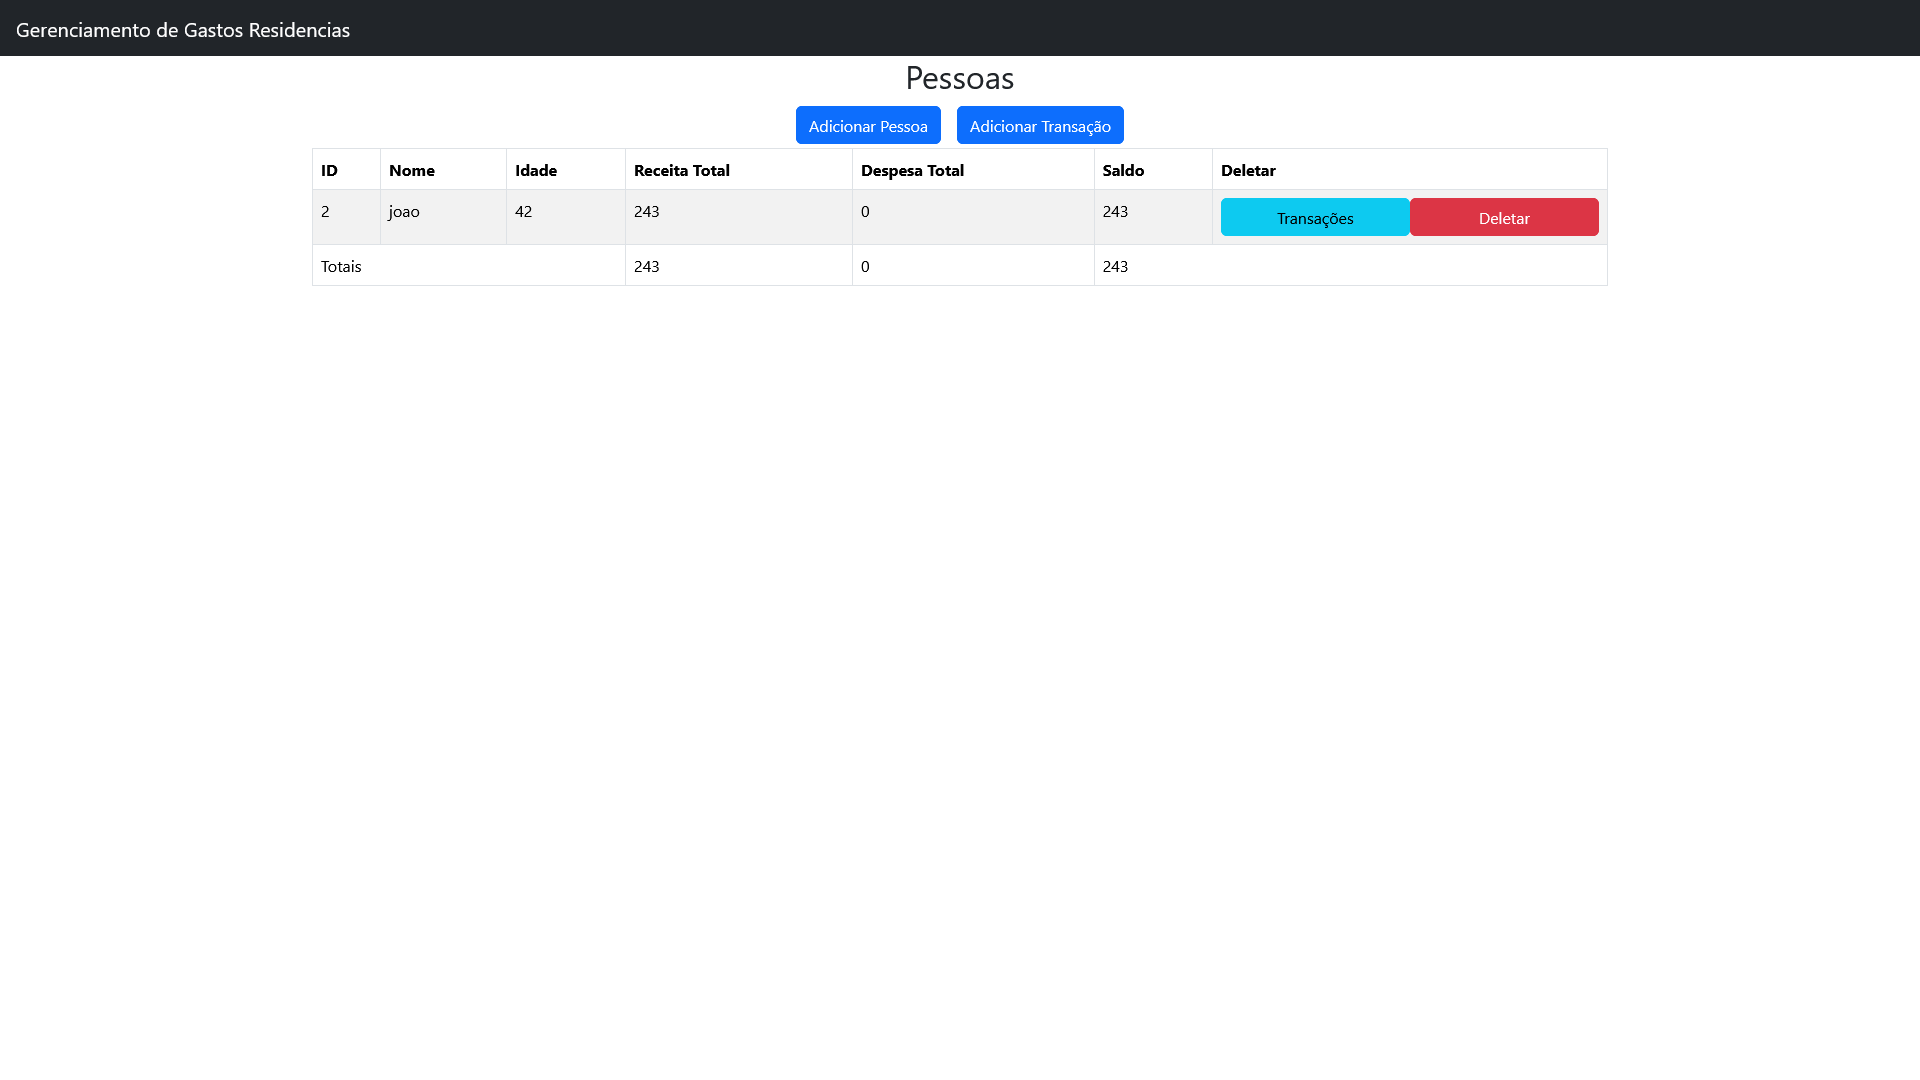
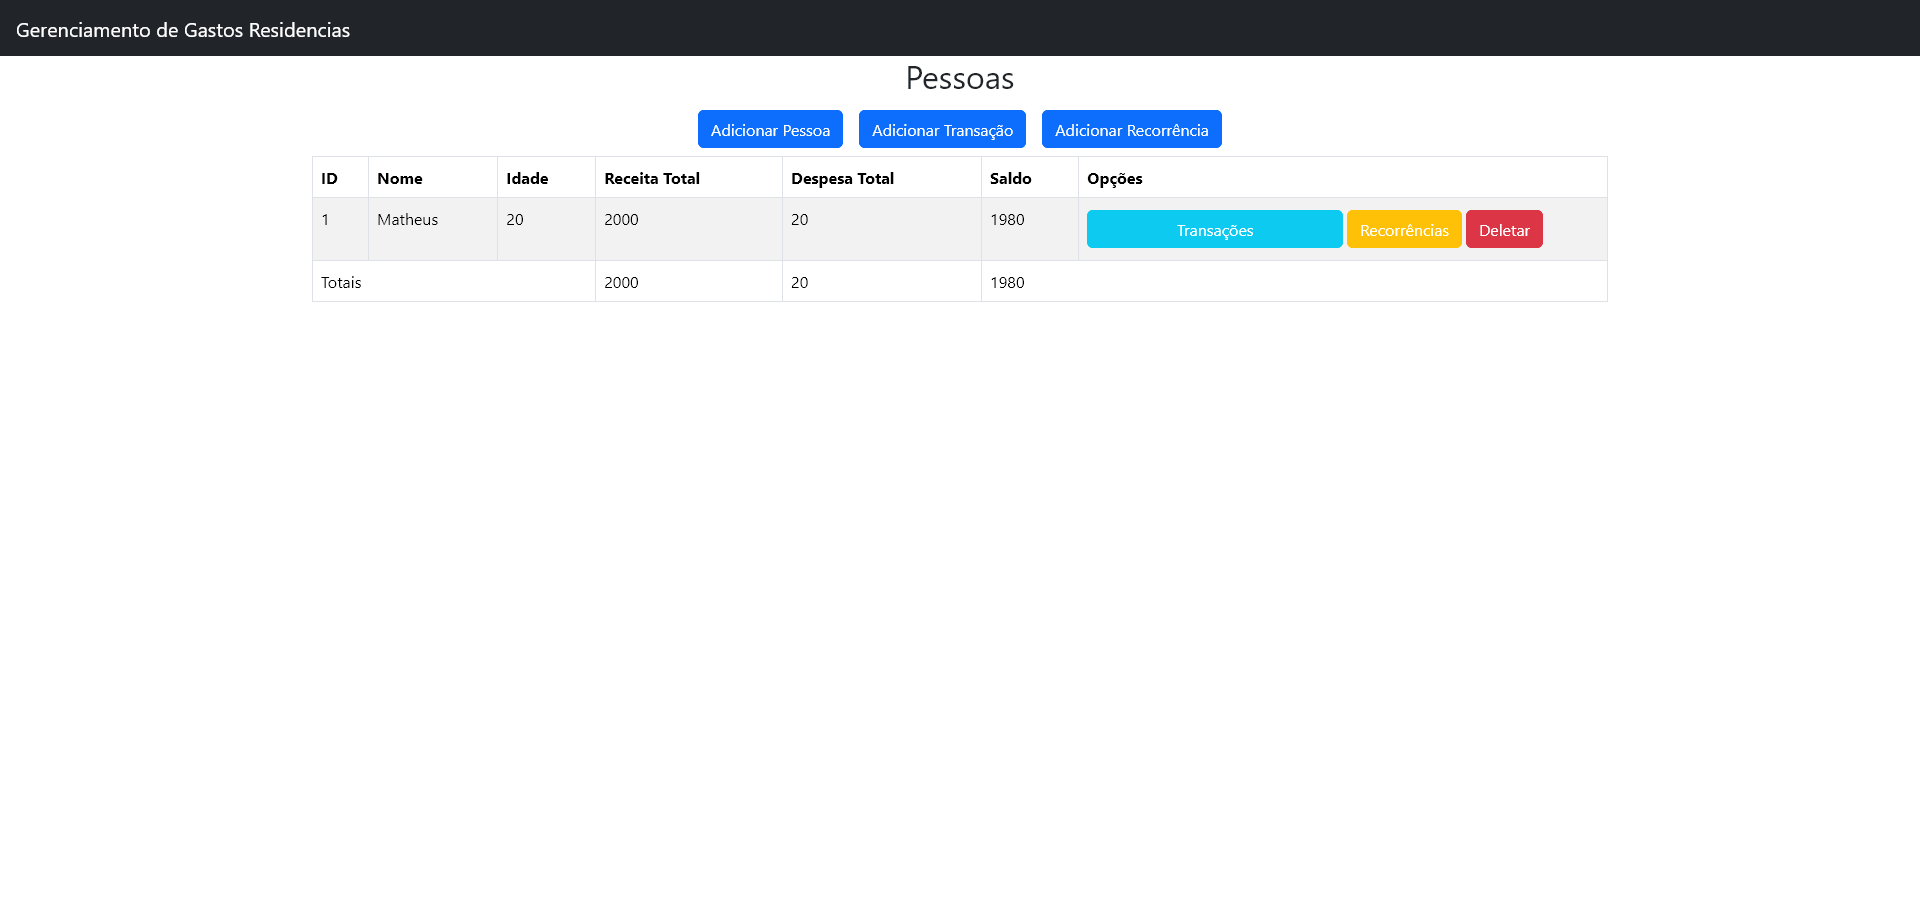
readme updated

diff --git a/README.md b/README.md
@@ -96,6 +96,22 @@ Displays the list of transactions for a specific user.
 
 ---
 
+#### 🔁 Add Recurrence
+
+Form to add a recurrence (either income or expense)/(monthly, weekly or daily) for a selected user.
+
+![Add Recurrence](./screenshots/add_recurrence.png)
+
+---
+
+#### 📄 User Recurrences
+
+Displays the list of recurrences for a specific user.
+
+![User Recurrences](./screenshots/user_recurrences.png)
+
+---
+
 #### 📚 API Documentation (Swagger)
 
 Interactive API documentation auto-generated by Swagger.
